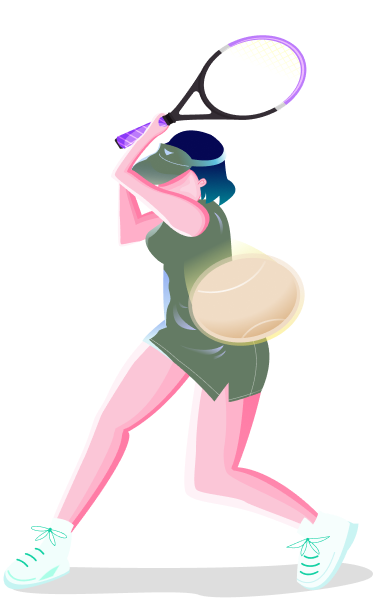
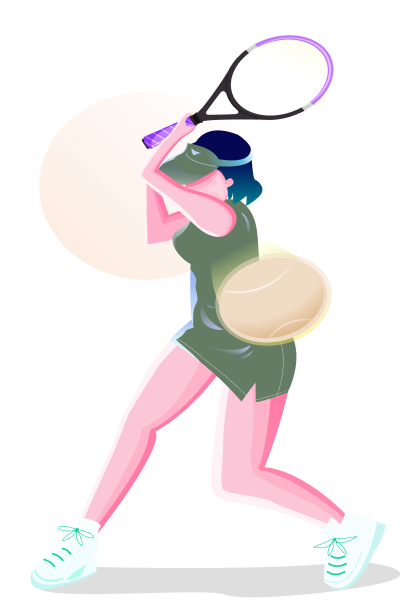
позиціонує бакграунди

diff --git a/css/main.min.css b/css/main.min.css
@@ -1,1 +1,1 @@
-.footer__container,.team__container,.about__container,.feature__container,.advantage__container,.hero,.header-container{width:100%;max-width:1200px;padding:0 16px;margin:0 auto}.team,.about,.feature,.advantage{padding-top:64px;padding-bottom:64px}.social,.footer-support__list,.footer-company__list,.team__list,.feature-card,.advantage-card,.nav__list{list-style:none}.nav__link{text-decoration:none}.button-header,.button{display:block;background:linear-gradient(102.3deg, #647B64 -4.62%, #66AC66 178.22%),linear-gradient(102.3deg, #0BB1E3 -4.62%, #0F2976 178.22%),#0e70af;font-family:inherit;font-weight:500;font-size:16px;line-height:24px;color:#fff;border:none;cursor:pointer}.button-header:hover,.button:hover,.button-header:focus,.button:focus{background:#fefefe;color:#647b64;background:#fefefe;box-shadow:0px 20px 40px rgba(128,143,150,.19)}body{font-family:"Montserrat",sans-serif;font-size:16px;line-height:1.5;color:#4f4f4f;background-color:#f3f1ee}*{box-sizing:border-box}h1,h2,h3,h4,h5,h6,p,span,ul{margin:0;padding:0}img{display:block;max-width:100%;height:auto}.button{display:flex;align-items:center;text-transform:uppercase;border-radius:2px;padding:24px;box-shadow:0px 20px 40px rgba(128,143,150,.19)}.button__icon{margin-left:16px;fill:currentColor}.heading-title{font-size:24px;font-weight:400;line-height:1.33;text-transform:uppercase;color:#f3b562;margin-bottom:8px}.heading-subtitle{display:block;font-weight:500;font-size:36px;line-height:1.33;text-transform:uppercase;color:#647b64;margin-bottom:40px}.header{padding-top:48px}.header-container{display:flex;justify-content:space-between;align-items:center;gap:40px}.nav{display:flex;justify-content:space-between;flex-grow:1}.nav__list{display:flex;align-items:center;gap:40px}.nav__link{color:#333;font-variant:small-caps}.button-header{border-radius:3px;padding:12px 16px;font-variant:small-caps}.hero-section{padding-top:32px;padding-bottom:64px}.hero{display:flex;justify-content:space-between;align-items:center}.hero__content{max-width:600px}.hero__title{font-weight:500;font-size:36px;line-height:1.33;color:#333;text-transform:uppercase;margin-bottom:24px}.hero__text{letter-spacing:.04em;color:#4f4f4f;margin-bottom:40px}.advantage__container{display:flex;justify-content:space-between;gap:100px}.advantage__text{letter-spacing:.04em;margin-bottom:40px}.section-description{max-width:460px}.advantage-card{display:flex;flex-wrap:wrap;-moz-column-gap:32px;column-gap:32px;row-gap:42px}.advantage-card__item{flex-basis:calc((100% - 32px)/2);padding:32px 40px}.advantage-card__item:hover{background-color:#fff;box-shadow:0px 5.87438px 31.33px rgba(155,148,148,.17);border-radius:8px}.advantage-card__icon{display:flex;justify-content:center;align-items:center;margin-bottom:20px;width:48px;height:48px;fill:#647b64;box-shadow:0px 4px 4px rgba(0,0,0,.04);border-radius:8px;background-color:#fff}.advantage-card__item:hover .advantage-card__icon{background-color:#647b64;fill:#fff;box-shadow:none}.advantage-card__title{margin-bottom:8px;font-weight:500;font-size:24px;line-height:1.5;color:#333;font-variant:small-caps}.advantage-card__text{font-size:14px;line-height:1.57;letter-spacing:.04em;color:#4f4f4f}.feature-card{display:flex;gap:44px}.feature-card__item{flex-basis:calc((100% - 88px)/3)}.feature-card__container{padding:64px 50px 59px 50px;background:linear-gradient(358.27deg, rgba(100, 123, 100, 0.77) -118.86%, rgba(100, 123, 100, 0) 25.62%, rgba(100, 123, 100, 0) 98.53%),#fff;border-radius:8px;fill:#647b64}.feature-card__item:nth-child(even) .feature-card__container{background:#647b64;color:#fff;fill:#fff}.feature-card__icon{margin-bottom:32px}.feature-card__title{margin-bottom:16px;font-weight:500;font-size:24px;line-height:1.5;color:#333;margin-bottom:16px;text-transform:uppercase}.feature-card__item:nth-child(even) .feature-card__title{color:#fff}.feature-card__text{letter-spacing:.04em}.about__container{display:flex;justify-content:space-between;gap:144px}.about__text{letter-spacing:.04em;margin-bottom:40px}.team__list{display:flex;gap:32px}.team__item{position:relative;background:linear-gradient(358.27deg, rgba(100, 123, 100, 0.77) -118.86%, rgba(100, 123, 100, 0) 25.62%, rgba(100, 123, 100, 0) 98.53%),#fff;border-radius:8px;padding:24px 32px}.team__content{position:absolute;right:32px;top:24px}.team__img{margin-bottom:24px}.team__title{font-weight:500;color:#333;font-variant:small-caps}.team__subtitle{font-size:14px;line-height:1.57;font-variant:small-caps}.team__text{letter-spacing:.04em;font-style:italic}.footer{padding:48px 0;background-color:#f0dcc5}.footer__container{display:flex;justify-content:space-between}.footer__logo{margin-bottom:16px}.footer-content{display:flex;flex-direction:column;gap:16px;max-width:268px;margin-right:132px}.footer-content__rights{display:block;margin-bottom:8px}.footer-company{margin-right:32px}.footer-company__title{font-weight:500;color:#647b64;margin-bottom:24px}.footer-company__list{color:#333}.footer-company__list a{color:inherit;text-decoration:none}.footer-company__list a:hover{text-decoration:underline}.footer-company__item{margin-bottom:12px}.footer-company__item:last-child{margin-bottom:0}.footer-support{margin-right:132px}.footer-support__title{font-weight:500;color:#647b64;margin-bottom:24px}.footer-support__list{color:#333}.footer-support__list a{color:inherit;text-decoration:none}.footer-support__list a:hover{text-decoration:underline}.footer-support__item{margin-bottom:12px}.footer-support__item:last-child{margin-bottom:0}.footer-form__title{font-weight:500;color:#647b64;margin-bottom:16px}.footer-form__textarea{width:268px;height:144px;display:block;resize:none;padding:16px 24px;outline:none;border:none;border-radius:2px;margin-bottom:16px}.social{display:flex;gap:16px}.social__item{width:32px;height:32px}.social__link{width:100%;height:100%;border-radius:50%;display:flex;justify-content:center;align-items:center;background-color:#dfd1c0;color:#647b64}.social__link:hover,.social__link:focus{background-color:#647b64;color:#dfd1c0}.social__icon{fill:currentColor}/*# sourceMappingURL=main.min.css.map */
+.footer__container,.team__container,.about__container,.feature__container,.advantage__container,.hero,.header-container{width:100%;max-width:1200px;padding:0 16px;margin:0 auto}.team,.about,.feature,.advantage{padding-top:64px;padding-bottom:64px}.social,.footer-support__list,.footer-company__list,.team__list,.feature-card,.advantage-card,.nav__list{list-style:none}.nav__link{text-decoration:none}.button-header,.button{display:block;background:linear-gradient(102.3deg, #647B64 -4.62%, #66AC66 178.22%),linear-gradient(102.3deg, #0BB1E3 -4.62%, #0F2976 178.22%),#0e70af;font-family:inherit;font-weight:500;font-size:16px;line-height:24px;color:#fff;border:none;cursor:pointer}.button-header:hover,.button:hover,.button-header:focus,.button:focus{background:#fefefe;color:#647b64;background:#fefefe;box-shadow:0px 20px 40px rgba(128,143,150,.19)}body{font-family:"Montserrat",sans-serif;font-size:16px;line-height:1.5;color:#4f4f4f;background-color:#f3f1ee}*{box-sizing:border-box}h1,h2,h3,h4,h5,h6,p,span,ul{margin:0;padding:0}img{display:block;max-width:100%;height:auto}.button{display:flex;align-items:center;text-transform:uppercase;border-radius:2px;padding:24px;box-shadow:0px 20px 40px rgba(128,143,150,.19)}.button__icon{margin-left:16px;fill:currentColor}.heading-title{font-size:24px;font-weight:400;line-height:1.33;text-transform:uppercase;color:#f3b562;margin-bottom:8px}.heading-subtitle{display:block;font-weight:500;font-size:36px;line-height:1.33;text-transform:uppercase;color:#647b64;margin-bottom:40px}.header{padding-top:48px}.header-container{display:flex;justify-content:space-between;align-items:center;gap:40px}.nav{display:flex;justify-content:space-between;flex-grow:1}.nav__list{display:flex;align-items:center;gap:40px}.nav__link{color:#333;font-variant:small-caps}.button-header{border-radius:3px;padding:12px 16px;font-variant:small-caps}.hero-section{padding-top:32px;padding-bottom:64px}.hero{display:flex;justify-content:space-between;align-items:center}.hero__content{max-width:600px}.hero__title{position:relative;font-weight:500;font-size:36px;line-height:1.33;color:#333;text-transform:uppercase;margin-bottom:24px}.hero__title::before{content:"";position:absolute;top:-56px;left:150px;width:100px;height:100px;border-radius:50%;background-image:linear-gradient(197.92deg, #EF8031 -227.37%, rgba(239, 128, 49, 0.307045) 1.58%, rgba(239, 128, 49, 0) 103.02%)}.hero__text{letter-spacing:.04em;color:#4f4f4f;margin-bottom:40px}.advantage__container{display:flex;justify-content:space-between;gap:100px}.advantage__text{letter-spacing:.04em;margin-bottom:40px}.section-description{max-width:460px;position:relative}.section-description::before{content:"";position:absolute;z-index:-1;left:-136px;right:-4px;top:-23px;height:160px;background-image:linear-gradient(164.26deg, rgba(239, 128, 49, 0) -335.51%, rgba(239, 128, 49, 0.15) -20.24%, rgba(239, 128, 49, 0) 119.45%)}.advantage-card{display:flex;flex-wrap:wrap;-moz-column-gap:32px;column-gap:32px;row-gap:42px}.advantage-card__item{flex-basis:calc((100% - 32px)/2);padding:32px 40px}.advantage-card__item:hover{background-color:#fff;box-shadow:0px 5.87438px 31.33px rgba(155,148,148,.17);border-radius:8px}.advantage-card__icon{display:flex;justify-content:center;align-items:center;margin-bottom:20px;width:48px;height:48px;fill:#647b64;box-shadow:0px 4px 4px rgba(0,0,0,.04);border-radius:8px;background-color:#fff}.advantage-card__item:hover .advantage-card__icon{background-color:#647b64;fill:#fff;box-shadow:none}.advantage-card__title{margin-bottom:8px;font-weight:500;font-size:24px;line-height:1.5;color:#333;font-variant:small-caps}.advantage-card__text{font-size:14px;line-height:1.57;letter-spacing:.04em;color:#4f4f4f}.feature__container{position:relative}.feature__container::before{content:"";position:absolute;z-index:-1;left:-120px;bottom:-32px;width:224px;height:224px;background-image:url("../images/dots.png")}.feature__container::after{content:"";position:absolute;z-index:-1;right:-120px;bottom:-32px;width:600px;height:160px;background-image:linear-gradient(164.26deg, rgba(239, 128, 49, 0) -335.51%, rgba(239, 128, 49, 0.15) -20.24%, rgba(239, 128, 49, 0) 119.45%);transform:rotate(180deg)}.feature-card{display:flex;gap:44px}.feature-card__item{flex-basis:calc((100% - 88px)/3)}.feature-card__container{padding:64px 50px 59px 50px;background:linear-gradient(358.27deg, rgba(100, 123, 100, 0.77) -118.86%, rgba(100, 123, 100, 0) 25.62%, rgba(100, 123, 100, 0) 98.53%),#fff;border-radius:8px;fill:#647b64}.feature-card__item:nth-child(even) .feature-card__container{background:#647b64;color:#fff;fill:#fff}.feature-card__icon{margin-bottom:32px}.feature-card__title{margin-bottom:16px;font-weight:500;font-size:24px;line-height:1.5;color:#333;margin-bottom:16px;text-transform:uppercase}.feature-card__item:nth-child(even) .feature-card__title{color:#fff}.feature-card__text{letter-spacing:.04em}.about__container{display:flex;justify-content:space-between;gap:144px;position:relative}.about__container::after{content:"";display:block;position:absolute;z-index:-1;top:40px;left:56px;width:570px;height:530px;background:linear-gradient(197.92deg, rgba(239, 128, 49, 0) -227.37%, rgba(239, 128, 49, 0.15) 1.58%, rgba(239, 128, 49, 0) 103.02%)}.about__text{letter-spacing:.04em;margin-bottom:40px}.team__list{display:flex;gap:32px}.team__item{position:relative;background:linear-gradient(358.27deg, rgba(100, 123, 100, 0.77) -118.86%, rgba(100, 123, 100, 0) 25.62%, rgba(100, 123, 100, 0) 98.53%),#fff;border-radius:8px;padding:24px 32px}.team__content{position:absolute;right:32px;top:24px}.team__img{margin-bottom:24px}.team__title{font-weight:500;color:#333;font-variant:small-caps}.team__subtitle{font-size:14px;line-height:1.57;font-variant:small-caps}.team__text{letter-spacing:.04em;font-style:italic}.footer{padding:48px 0;background-color:#f0dcc5}.footer__container{display:flex;justify-content:space-between}.footer__logo{margin-bottom:16px}.footer-content{display:flex;flex-direction:column;gap:16px;max-width:268px;margin-right:132px}.footer-content__rights{display:block;margin-bottom:8px}.footer-company{margin-right:32px;padding-right:42px}.footer-company__title{font-weight:500;color:#647b64;margin-bottom:24px}.footer-company__list{color:#333}.footer-company__list a{color:inherit;text-decoration:none}.footer-company__list a:hover{text-decoration:underline}.footer-company__item{margin-bottom:12px}.footer-company__item:last-child{margin-bottom:0}.footer-support{margin-right:132px;padding-right:42px}.footer-support__title{font-weight:500;color:#647b64;margin-bottom:24px}.footer-support__list{color:#333}.footer-support__list a{color:inherit;text-decoration:none}.footer-support__list a:hover{text-decoration:underline}.footer-support__item{margin-bottom:12px}.footer-support__item:last-child{margin-bottom:0}.footer-form__title{font-weight:500;color:#647b64;margin-bottom:16px}.footer-form__textarea{width:268px;height:144px;display:block;resize:none;padding:16px 24px;outline:none;border:none;border-radius:2px;margin-bottom:16px}.social{display:flex;gap:16px}.social__item{width:32px;height:32px}.social__link{width:100%;height:100%;border-radius:50%;display:flex;justify-content:center;align-items:center;background-color:#dfd1c0;color:#647b64}.social__link:hover,.social__link:focus{background-color:#647b64;color:#dfd1c0}.social__icon{fill:currentColor}/*# sourceMappingURL=main.min.css.map */

diff --git a/css/main.css b/css/main.css
@@ -145,12 +145,23 @@ img {
   max-width: 600px;
 }
 .hero__title {
+  position: relative;
   font-weight: 500;
   font-size: 36px;
   line-height: 1.33;
   color: #333;
   text-transform: uppercase;
   margin-bottom: 24px;
+}
+.hero__title::before {
+  content: "";
+  position: absolute;
+  top: -56px;
+  left: 150px;
+  width: 100px;
+  height: 100px;
+  border-radius: 50%;
+  background-image: linear-gradient(197.92deg, #EF8031 -227.37%, rgba(239, 128, 49, 0.307045) 1.58%, rgba(239, 128, 49, 0) 103.02%);
 }
 .hero__text {
   letter-spacing: 0.04em;
@@ -170,6 +181,17 @@ img {
 
 .section-description {
   max-width: 460px;
+  position: relative;
+}
+.section-description::before {
+  content: "";
+  position: absolute;
+  z-index: -1;
+  left: -136px;
+  right: -4px;
+  top: -23px;
+  height: 160px;
+  background-image: linear-gradient(164.26deg, rgba(239, 128, 49, 0) -335.51%, rgba(239, 128, 49, 0.15) -20.24%, rgba(239, 128, 49, 0) 119.45%);
 }
 
 .advantage-card {
@@ -220,6 +242,31 @@ img {
   color: #4F4F4F;
 }
 
+.feature__container {
+  position: relative;
+}
+.feature__container::before {
+  content: "";
+  position: absolute;
+  z-index: -1;
+  left: -120px;
+  bottom: -32px;
+  width: 224px;
+  height: 224px;
+  background-image: url("../images/dots.png");
+}
+.feature__container::after {
+  content: "";
+  position: absolute;
+  z-index: -1;
+  right: -120px;
+  bottom: -32px;
+  width: 600px;
+  height: 160px;
+  background-image: linear-gradient(164.26deg, rgba(239, 128, 49, 0) -335.51%, rgba(239, 128, 49, 0.15) -20.24%, rgba(239, 128, 49, 0) 119.45%);
+  transform: rotate(180deg);
+}
+
 .feature-card {
   display: flex;
   gap: 44px;
@@ -261,6 +308,18 @@ img {
   display: flex;
   justify-content: space-between;
   gap: 144px;
+  position: relative;
+}
+.about__container::after {
+  content: "";
+  display: block;
+  position: absolute;
+  z-index: -1;
+  top: 40px;
+  left: 58px;
+  width: 570px;
+  height: 530px;
+  background: linear-gradient(197.92deg, rgba(239, 128, 49, 0) -227.37%, rgba(239, 128, 49, 0.15) 1.58%, rgba(239, 128, 49, 0) 103.02%);
 }
 .about__text {
   letter-spacing: 0.04em;
@@ -326,6 +385,7 @@ img {
 
 .footer-company {
   margin-right: 32px;
+  padding-right: 42px;
 }
 .footer-company__title {
   font-weight: 500;
@@ -351,6 +411,7 @@ img {
 
 .footer-support {
   margin-right: 132px;
+  padding-right: 42px;
 }
 .footer-support__title {
   font-weight: 500;

diff --git a/scss/components/_about.scss b/scss/components/_about.scss
@@ -6,7 +6,43 @@
         display: flex;
         justify-content: space-between;
         gap: 144px;
+        position: relative;
+
+        &::after {
+            content: "";
+            display: block;
+            position: absolute;
+            z-index: -1;
+            top: 40px;
+            left: 56px;
+            width: 570px;
+            height: 530px;
+            background: linear-gradient(197.92deg, rgba(239, 128, 49, 0) -227.37%,
+                    rgba(239, 128, 49, 0.15) 1.58%,
+                    rgba(239, 128, 49, 0) 103.02%);
+        }
     }
+
+    // &__img {
+    //     position:relative;
+    //     // background-image: linear-gradient(197.92deg, rgba(239, 128, 49, 0) -227.37%,
+    //     //             rgba(239, 128, 49, 0.15) 1.58%,
+    //     //             rgba(239, 128, 49, 0) 103.02%);
+    //     //     background-position: right 30px bottom 20px;
+
+   
+    // }
+
+    // &__bg {
+    //     // position: absolute;
+    //         // top: 40px;
+    //         //     left: 40px;
+    //             width: 610px;
+    //             height: 570px;
+    //             // background: linear-gradient(197.92deg, rgba(239, 128, 49, 0) -227.37%,
+    //             //         rgba(239, 128, 49, 0.15) 1.58%,
+    //             //         rgba(239, 128, 49, 0) 103.02%);
+    // }
 
     &__text {
         letter-spacing: 0.04em;

diff --git a/scss/components/_feature.scss b/scss/components/_feature.scss
@@ -3,6 +3,30 @@
 
     &__container {
         @extend %container;
+        position: relative;
+
+        &::before {
+            content: '';
+            position: absolute;
+            z-index: -1;
+            left: -120px;
+            bottom: -32px;
+            width: 224px;
+            height: 224px;
+            background-image: url('../images/dots.png');
+        }
+
+        &::after {
+            content: '';
+            position: absolute;
+            z-index: -1;
+            right: -120px;
+            bottom: -32px;
+            width: 600px;
+            height: 160px;
+            background-image: $gradient;
+            transform: rotate(180deg);
+        }
     }
 }
 

diff --git a/scss/components/_hero.scss b/scss/components/_hero.scss
@@ -14,12 +14,26 @@
     }
 
     &__title {
+        position: relative;
         font-weight: 500;
         font-size: 36px;
         line-height: 1.33;
         color: $secondaryColor;
         text-transform: uppercase;
         margin-bottom: 24px;
+
+        &::before {
+            content: '';
+            position: absolute;
+            top:-56px;
+            left:150px;
+            width: 100px;
+            height: 100px;
+            border-radius: 50%;
+            background-image: linear-gradient(197.92deg, #EF8031 -227.37%,
+                    rgba(239, 128, 49, 0.307045) 1.58%,
+                    rgba(239, 128, 49, 0) 103.02%);
+            }
     }
 
     &__text {

diff --git a/scss/components/_advantage.scss b/scss/components/_advantage.scss
@@ -1,6 +1,6 @@
 .advantage {
     @extend %section;
-
+   
     &__container {
         @extend %container;
         display: flex;
@@ -11,12 +11,25 @@
     &__text {
         letter-spacing: 0.04em;
         margin-bottom: 40px;
-        
     }
 }
 
+
 .section-description {
     max-width: 460px;
+    position: relative;
+            
+    &::before {
+        content: '';
+        position: absolute;
+        z-index: -1;
+        left: -136px;
+        right: -4px;
+        top: -23px;
+        // width: 600px;
+        height: 160px;
+        background-image: $gradient;
+    }
 }
 
 .advantage-card {

diff --git a/index.html b/index.html
@@ -133,7 +133,7 @@
       </section>
       <section class="about">
         <div class="about__container">
-          <img src="./images/photo-we.jpg" width="570" height="530" alt="happy people" />
+          <img class="about__img" src="./images/photo-we.jpg" width="570" height="530" alt="happy people" />
           <div class="about__content">
             <h2 class="heading-title">About us</h2>
             <span class="heading-subtitle">Who we are</span>

diff --git a/scss/components/_footer.scss b/scss/components/_footer.scss
@@ -36,6 +36,7 @@
 
 .footer-company {
     margin-right: 32px;
+    padding-right: 42px;
 
     &__title {
         font-weight: 500;
@@ -68,6 +69,7 @@
 
 .footer-support {
     margin-right: 132px;
+    padding-right: 42px;
 
     &__title {
         font-weight: 500;

diff --git a/scss/utils/_variables.scss b/scss/utils/_variables.scss
@@ -7,3 +7,6 @@ $invertColor: #DFD1C0;
 $colorTitle: #F3B562;
 $footerColor: #F0DCC5;
 $hoverColor: #fefefe;
+$gradient: linear-gradient(164.26deg,
+    rgba(239, 128, 49, 0) -335.51%, rgba(239, 128, 49, 0.15) -20.24%,
+    rgba(239, 128, 49, 0) 119.45%);
